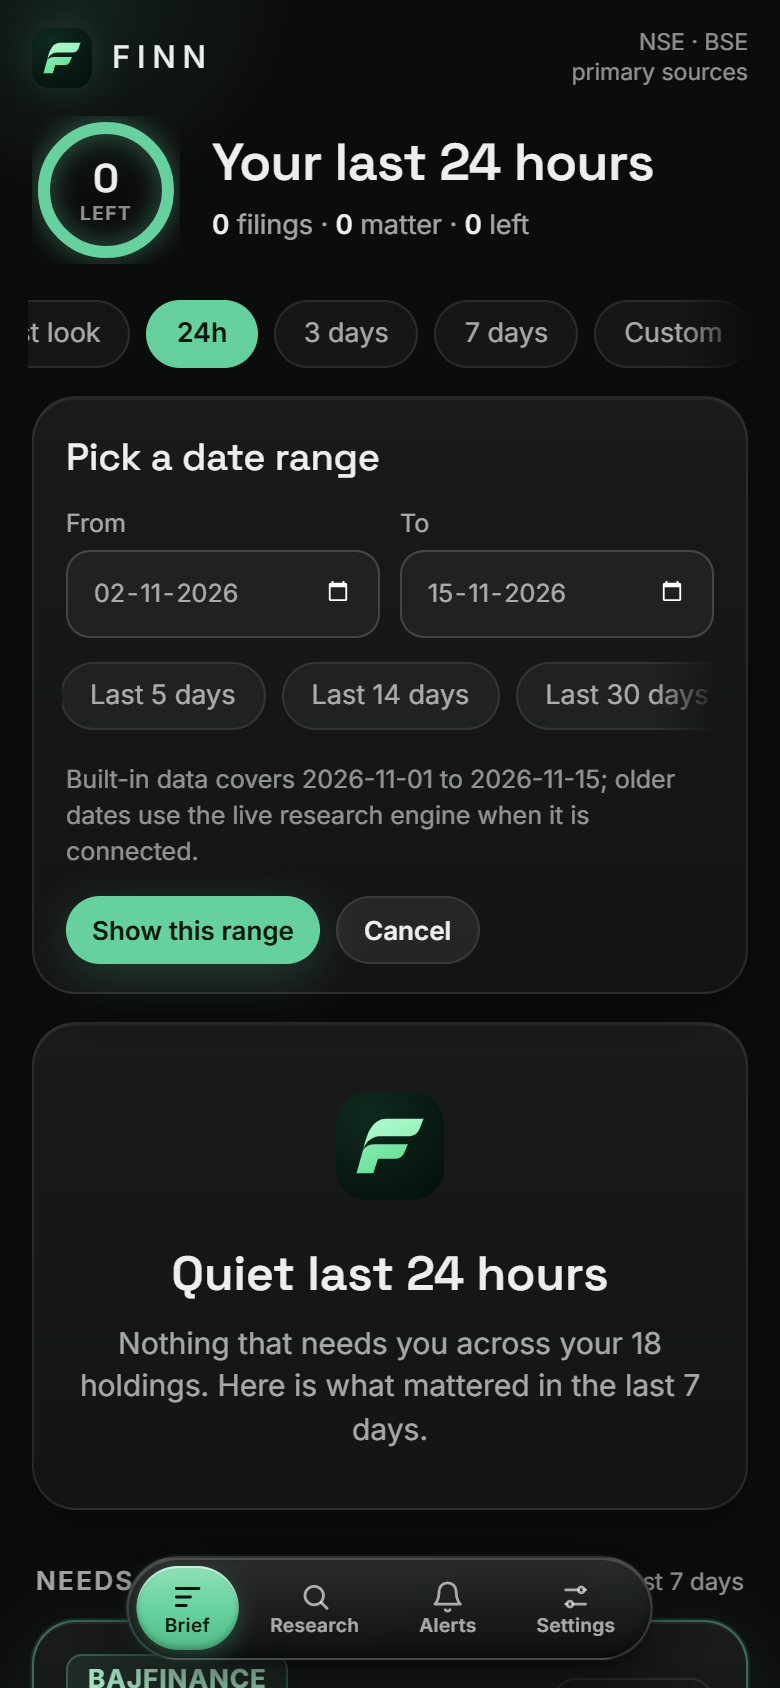
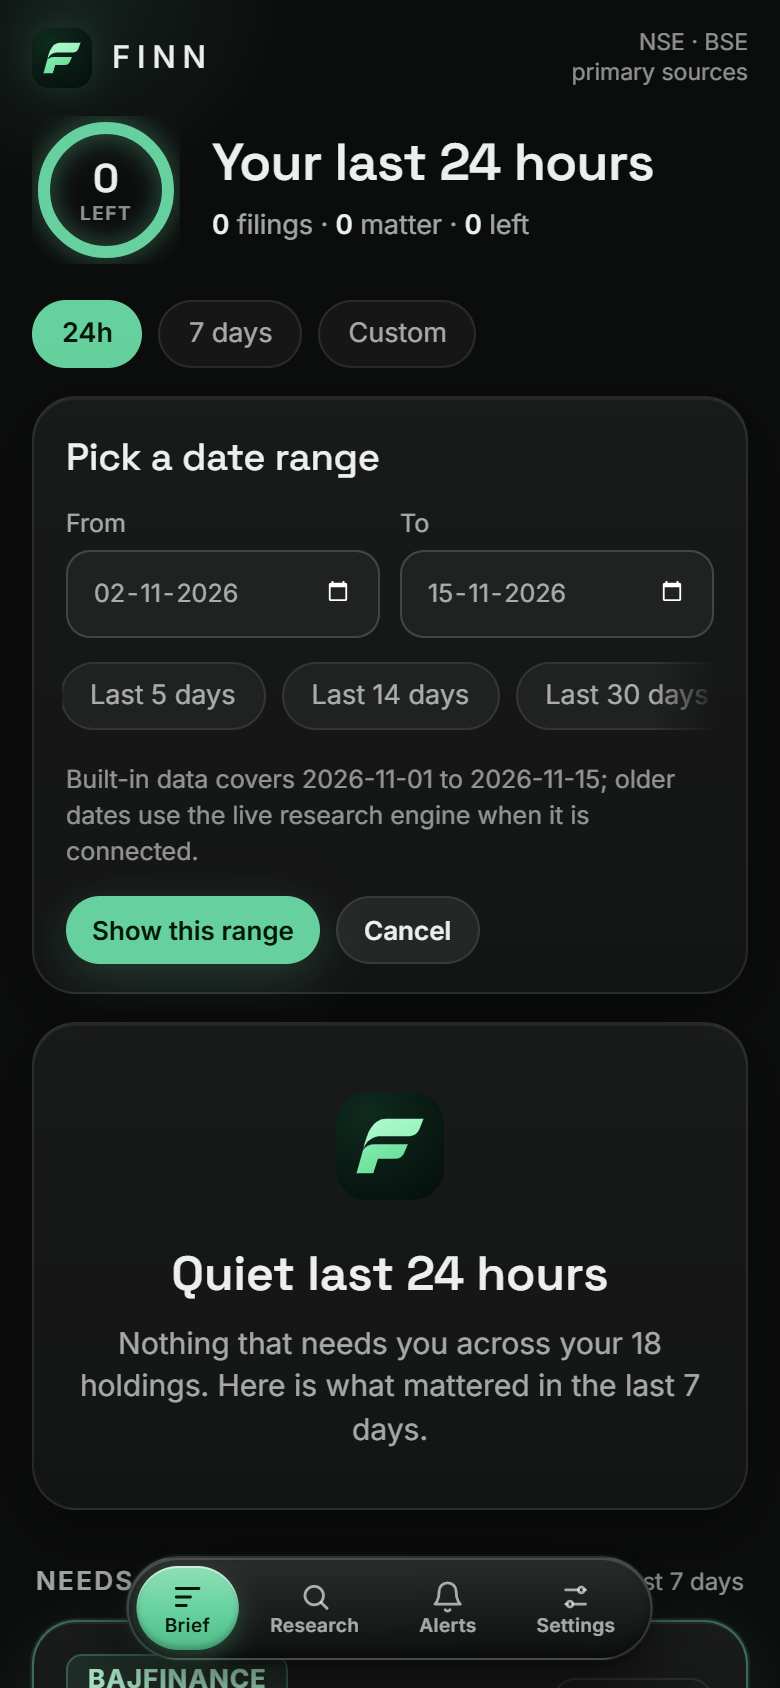
Brief: show 'Since last look' and '3 days' only when they hold something that needs attention
Otherwise the window chips are 24h, 7 days and Custom.

diff --git a/frontend/src/screens/Brief.tsx b/frontend/src/screens/Brief.tsx
@@ -87,6 +87,13 @@ export default function Brief({ onOpenResearch }: { onOpenResearch: (t: string) 
   const base14 = briefs["custom"];
   const minDay = base14?.window?.from?.slice(0, 10) || "";
   const maxDay = base14?.generated_at?.slice(0, 10) || "";
+  // "Since last look" and "3 days" appear only when they hold something that needs attention;
+  // otherwise the chips are just 24h, 7 days and Custom.
+  const shownWindows = useMemo(() => WINDOWS.filter((w) => w.key === "24h" || w.key === "7d" || w.key === "custom"
+    || (briefs[w.key] && rerank(briefs[w.key], tune).hero.length > 0)), [briefs, tune]);
+  useEffect(() => {
+    if (Object.keys(briefs).length && !shownWindows.some((w) => w.key === win)) setWin("24h");
+  }, [briefs, shownWindows, win]);
   const requested = win === "custom" && live ? live
     : win === "custom" && range && base14 ? briefForRange(base14, range.from, range.to) : briefs[win];
   // A quiet window never shows an empty screen: fall forward to the shortest window that has something.
@@ -160,7 +167,7 @@ export default function Brief({ onOpenResearch }: { onOpenResearch: (t: string) 
       </div>
 
       <div className="chips" role="toolbar" aria-label="Time window">
-        {WINDOWS.map((w) => (
+        {shownWindows.map((w) => (
           <button key={w.key} className="chip" aria-pressed={w.key === win}
             onClick={() => (w.key === "custom" ? setPicking((p) => !p) : (setWin(w.key), setPicking(false)))}
             aria-expanded={w.key === "custom" ? picking : undefined}>
